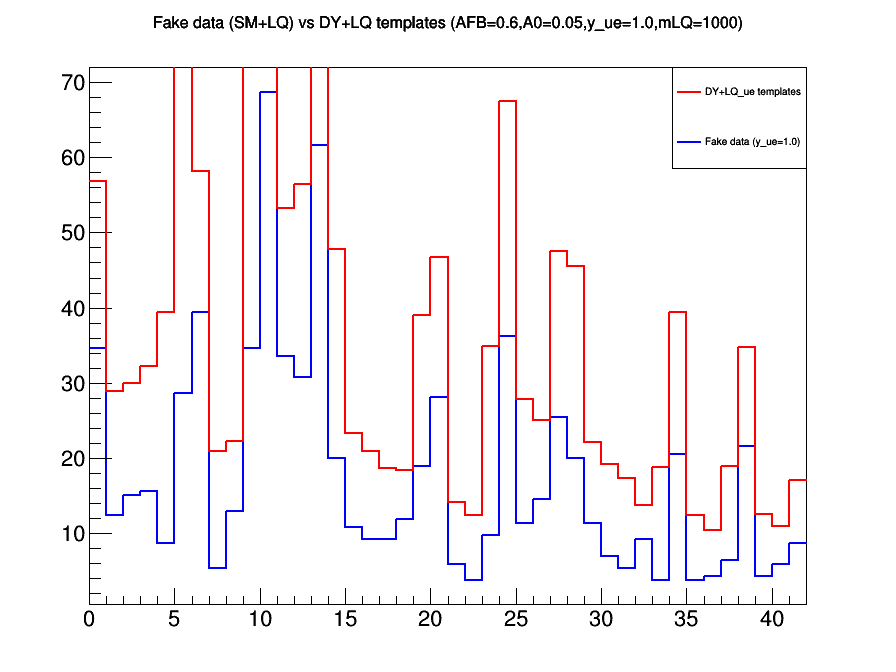
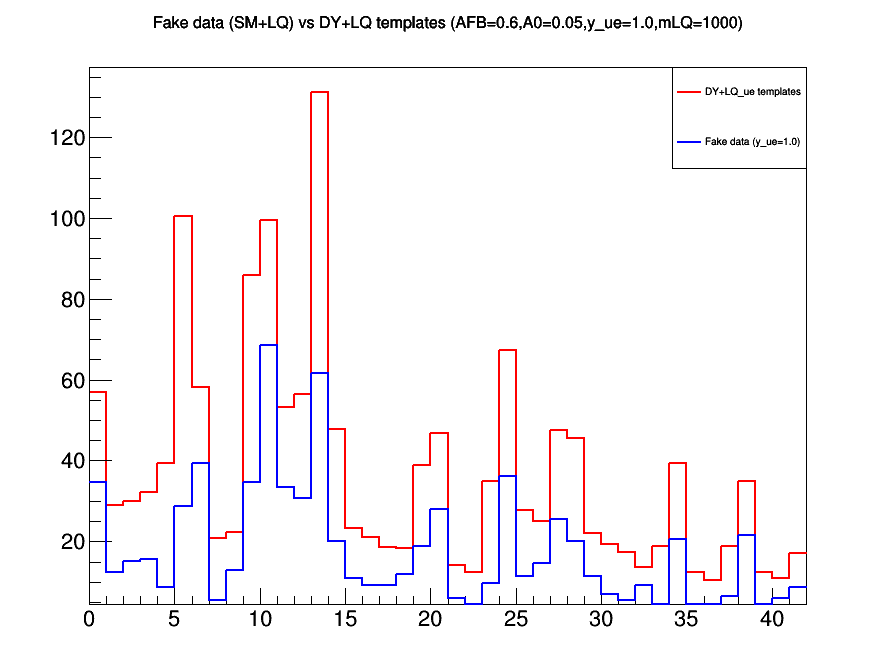
flipped cost and remade plots

diff --git a/analyze/combine/LQ_make_gen_templates.C b/analyze/combine/LQ_make_gen_templates.C
@@ -226,9 +226,9 @@ void LQ_make_gen_templates(){
         h1_total->SetLineColor(kRed);
         h1_data->SetLineWidth(2);
         h1_total->SetLineWidth(2); 
-        h1_data->SetTitle("Fake data (SM+LQ) vs DY+LQ templates (AFB=0.6,A0=0.05,y_ue=1.0,mLQ=1000)");
-        h1_data->Draw("hist");
-        h1_total->Draw("hist same ");
+        h1_total->SetTitle("Fake data (SM+LQ) vs DY+LQ templates (AFB=0.6,A0=0.05,y_ue=1.0,mLQ=1000)");
+        h1_total->Draw("hist");
+        h1_data->Draw("hist same ");
         TLegend *leg1 = new TLegend(0.75, 0.75, 0.9, 0.9);
         leg1->AddEntry(h1_total, "DY+LQ_ue templates", "l");
         leg1->AddEntry(h1_data, "Fake data (y_ue=1.0)", "l");
